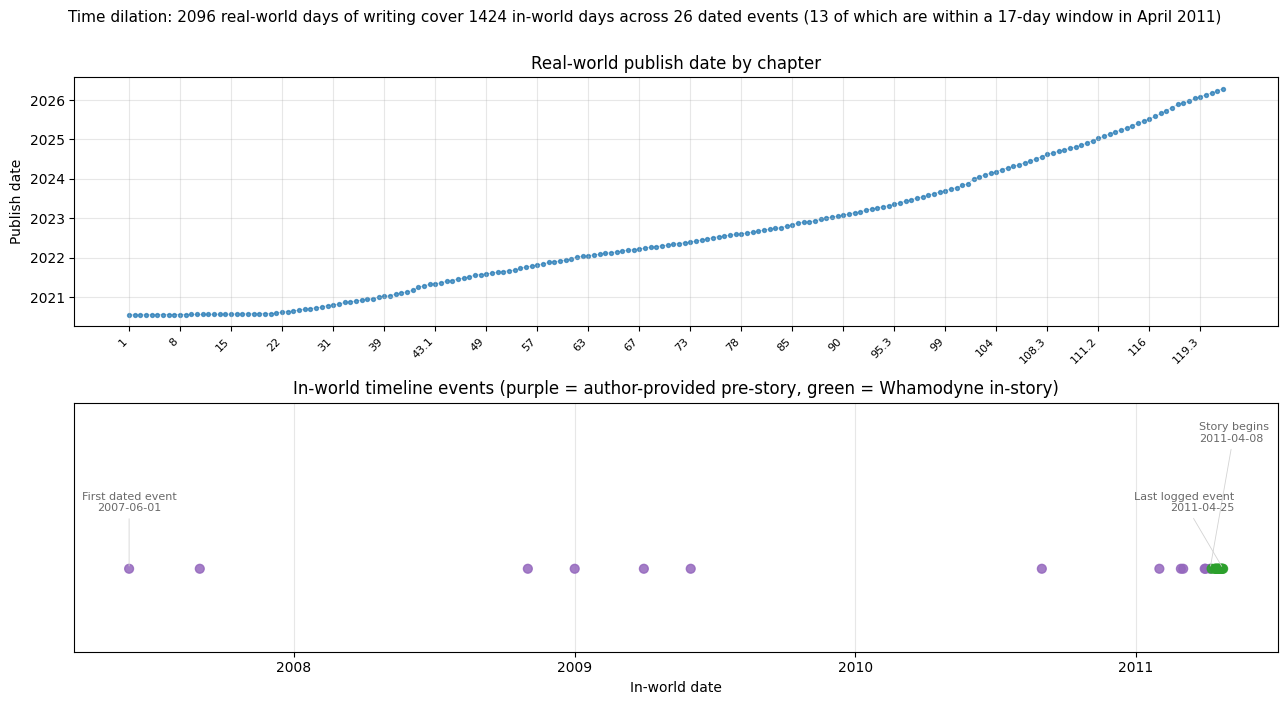
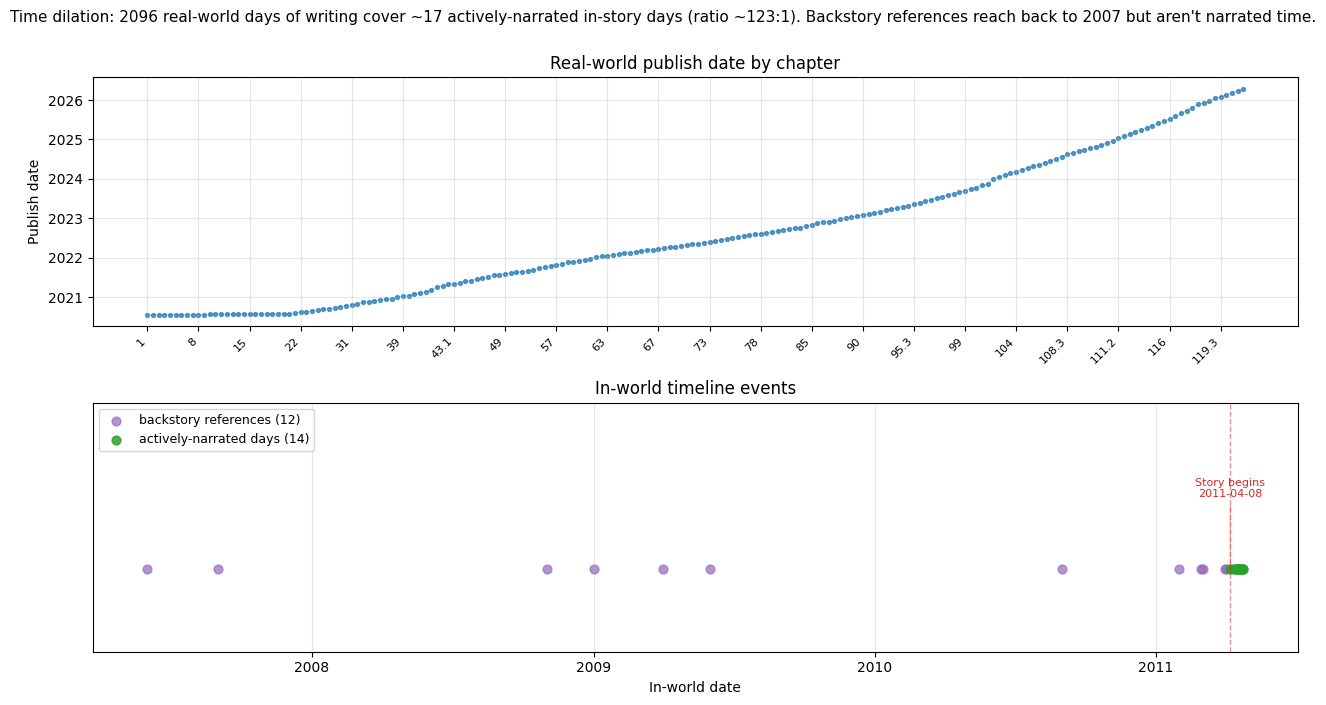
Fix time-dilation framing and document the cadence-shift trigger
User correction on chart 5: the previous "1424 in-world days" framing
was wrong. The ~4-year span included backstory references (Joe's
years 2007-2011) that are mentioned but NOT actively narrated.

The chart now distinguishes:
  - backstory references (12 purple dots, 2007-early April 2011)
  - actively-narrated days (14 green dots, April 8-25 2011)

Filter switched from attribution-based to date-based (>= 2011-04-08)
so the "Story Begins" entry at April 8 (which the parser tagged
"author" because the column-C marker switches at the next row)
is correctly classified as in-story.

Corrected ratio: 2096 real-world days / 17 actively-narrated
in-story days ≈ 123:1, not the prior misleading "1.5:1".

Also updates the README's "Roll cadence" mechanics subsection per
new user info: the cadence silently shifted from 100 to 200 CP/roll
right after the last 100-point perk was acquired (some chapter in
76-96 where we lack roll-by-roll data). The chapter 97 author note
mentions "200 points" as the established rule because by then it
had already been the rule for some time. Empirically, 100-CP perks
continue to be acquired sparsely through chapter 114, so the
"last 100-point perk" trigger is likely a more specific criterion
not directly visible in our data. Pinpointing the exact chapter
remains a Future Work item.

https://claude.ai/code/session_01MaaTLCZx2WLBnLMY7m1Sre

diff --git a/scripts/make_charts.py b/scripts/make_charts.py
@@ -290,60 +290,54 @@ def chart_time_dilation() -> None:
                         rotation=45, ha="right", fontsize=8)
     ax1.grid(True, alpha=0.3)
 
-    # Bottom: in-world timeline events on a date axis. Don't label every
-    # event - the April 2011 cluster has 13 events in 17 days and would
-    # be unreadable. Label only the milestones.
+    # Bottom: in-world timeline. Split events into "backstory references"
+    # (mentioned but not actively narrated) and "actively-narrated days"
+    # (the protagonist's experienced time). The split is by date - the
+    # "Story Begins" entry on 2011-04-08 is the boundary, regardless of
+    # which curator contributed each entry.
     iso_entries = [e for e in timeline if e["in_world_date_iso"]]
     iso_entries.sort(key=lambda e: e["in_world_date_iso"])
-    iw_dates = [dt.date.fromisoformat(e["in_world_date_iso"]) for e in iso_entries]
-    colors = ["tab:purple" if e["attribution"] == "author" else "tab:green" for e in iso_entries]
-    sizes = [40 for _ in iso_entries]
-    ax2.scatter(iw_dates, [0.5] * len(iso_entries), s=sizes, c=colors, alpha=0.85, zorder=3)
+    STORY_START_ISO = "2011-04-08"
+    backstory = [e for e in iso_entries if e["in_world_date_iso"] < STORY_START_ISO]
+    in_story = [e for e in iso_entries if e["in_world_date_iso"] >= STORY_START_ISO]
+    bs_dates = [dt.date.fromisoformat(e["in_world_date_iso"]) for e in backstory]
+    is_dates = [dt.date.fromisoformat(e["in_world_date_iso"]) for e in in_story]
 
-    # Pick a few annotation points: first author entry, first Whamodyne
-    # entry, and the start-of-story entry.
-    milestones = [
-        (iso_entries[0], "First dated event"),
-    ]
-    for e in iso_entries:
-        if e["events"].lower().startswith("story begins"):
-            milestones.append((e, "Story begins"))
-            break
-    milestones.append((iso_entries[-1], "Last logged event"))
-    # Stagger annotation y-offsets so the April 2011 cluster of milestones
-    # doesn't pile up - 17 in-world days is one pixel on a 4-year axis.
-    used_dates: set[str] = set()
-    offsets = [(40, "center"), (90, "left"), (40, "right")]
-    for (e, label), (y_off, ha) in zip(milestones, offsets):
-        if e["in_world_date_iso"] in used_dates:
-            continue
-        used_dates.add(e["in_world_date_iso"])
-        d = dt.date.fromisoformat(e["in_world_date_iso"])
-        x_off = {"center": 0, "left": -8, "right": 8}[ha]
+    ax2.scatter(bs_dates, [0.5] * len(bs_dates), s=40, c="tab:purple",
+                alpha=0.7, label=f"backstory references ({len(bs_dates)})")
+    ax2.scatter(is_dates, [0.5] * len(is_dates), s=40, c="tab:green",
+                alpha=0.85, label=f"actively-narrated days ({len(is_dates)})")
+
+    # Story-start divider line
+    if is_dates:
+        story_start = dt.date.fromisoformat(STORY_START_ISO)
+        ax2.axvline(story_start, color="tab:red", linestyle="--", alpha=0.5, linewidth=1)
         ax2.annotate(
-            f"{label}\n{e['in_world_date_text']}",
-            xy=(d, 0.5),
-            xytext=(x_off, y_off),
+            f"Story begins\n{STORY_START_ISO}",
+            xy=(story_start, 0.5),
+            xytext=(0, 50),
             textcoords="offset points",
-            ha=ha, va="bottom",
-            fontsize=8, color="dimgray",
-            arrowprops=dict(arrowstyle="-", color="lightgray", linewidth=0.6),
+            ha="center", va="bottom",
+            fontsize=8, color="tab:red",
+            arrowprops=dict(arrowstyle="-", color="tab:red", linewidth=0.6, alpha=0.5),
         )
 
-    ax2.set_title("In-world timeline events (purple = author-provided pre-story, green = Whamodyne in-story)")
+    ax2.set_title("In-world timeline events")
     ax2.set_xlabel("In-world date")
     ax2.set_ylim(0, 1.5)
     ax2.set_yticks([])
     ax2.xaxis.set_major_locator(mdates.YearLocator())
     ax2.xaxis.set_major_formatter(mdates.DateFormatter("%Y"))
     ax2.grid(True, axis="x", alpha=0.3)
+    ax2.legend(loc="upper left", fontsize=9)
 
-    iw_span_days = (iw_dates[-1] - iw_dates[0]).days
     rw_span_days = (pub[-1] - pub[0]).days
+    in_story_span = (is_dates[-1] - is_dates[0]).days if len(is_dates) >= 2 else 0
     fig.suptitle(
         f"Time dilation: {rw_span_days} real-world days of writing cover "
-        f"{iw_span_days} in-world days across {len(iso_entries)} dated events "
-        f"(13 of which are within a 17-day window in April 2011)",
+        f"~{in_story_span} actively-narrated in-story days "
+        f"(ratio ~{rw_span_days // max(in_story_span, 1)}:1). Backstory references "
+        f"reach back to 2007 but aren't narrated time.",
         fontsize=11, y=1.0,
     )
     fig.tight_layout()

diff --git a/README.md b/README.md
@@ -43,33 +43,30 @@ the new base rate.
 The author noted further modifications might follow as more
 constellations clear; this is the only documented one so far.
 
-### Roll cadence (open question)
+### Roll cadence shift (resolved)
 
-The chapter 97 author note also describes the *prior* roll cadence as
-"rolls every 200 points," in tension with chapter 1's "roll attempted
-every 100 CP" and the curator's xlsx rules box ("Every 100 Points
-gained, LordRoustabout will stop writing and roll dice"). Empirical
-analysis of `rolls.json` settles this for the curator-covered range:
+Empirical analysis of `rolls.json` shows the cadence was 100 CP/roll
+through the curator-covered range:
 
 > Across 487 consecutive numbered-roll pairs in chapters 1–75, **472
 > (97%) differ by exactly 100 CP**. The 15 outliers are sheet typos or
 > cluster-purchase artifacts. The 100 CP cadence is stable across
 > every roll-number sub-range (1–100, 100–200, …, 400–503).
 
-Chapters 76–96 are not covered by `rolls.json`, so any silent shift
-between the curator's last data point and the ch97 announcement would
-fall in that gap. Two interpretations:
+User confirmation from the project Discord: the cadence silently
+shifted from 100 to 200 CP/roll **right after the last 100-point perk
+was acquired** (some chapter between 76 and 96, where we have no
+roll-by-roll data). The chapter 97 note then describes 200 CP/roll as
+the existing rule because by that point it had already been the rule
+for some time.
 
-1. **Trust the data:** the cadence stayed at 100 CP/roll through
-   chapter 96, and the ch97 change moved it to 200 CP/roll along with
-   the words-per-CP rate. The author's wording in the ch97 note is a
-   simplification.
-2. **Trust the author note:** the cadence shifted to 200 CP/roll
-   somewhere in chapters 76–96 and the ch97 change is words-per-CP
-   only. We can't verify this from current data.
-
-Phase 2 modeling defaults to interpretation 1 (direct evidence), with
-the caveat that the regime in chapters 76–96 is empirically unknown.
+Empirically, the data doesn't show a clean cliff for 100-CP perk
+acquisitions — they continue (sparsely) all the way through chapter
+114. So the trigger likely refers to a specific 100-CP purchase
+defined by some criterion not visible in our data (e.g., a particular
+constellation or jump). Pinpointing the exact transition chapter
+remains a Future Work item; the deterministic word-count → roll
+matching project would resolve it.
 
 **Coverage in our data:** 17 600+ acquisitions occur before chapter 97
 (no shadow); 11 are in or after chapter 97 (shadow active). The old
@@ -128,7 +125,7 @@ data and surface findings worth keeping in mind:
 | `figures/rolls_per_chapter.png` | Hits vs misses per chapter for chapters 1–75 (curator coverage). Hit rate ~38% (191/496); the chapter 41 outlier is the Felyne Comrade introduction with many free-bonus perks. |
 | `figures/acquisitions_per_chapter.png` | Paid vs free perks per chapter for the full story. The chapter 97 mechanic-change line shows a visible flattening of bar heights afterward. |
 | `figures/constellation_growth.png` | Stacked area of cumulative perks per constellation through chapter 75. Toolkits, Knowledge, and Quality dominate; Capstone activates around chapter 64. |
-| `figures/time_dilation.png` | Real-world publish date by chapter (top) alongside in-world dated events (bottom). 2096 real-world days of writing cover 1424 in-world days; 13 of the 26 dated events are within a 17-day window in April 2011. |
+| `figures/time_dilation.png` | Real-world publish date by chapter (top) alongside in-world dated events (bottom). 2096 real-world days of writing cover ~17 actively-narrated in-story days (April 8 → April 25, 2011) — a ~123:1 dilation ratio. The 12 earlier purple dots are backstory references reaching back to 2007 but aren't narrated time. |
 
 ## Spot-check
 